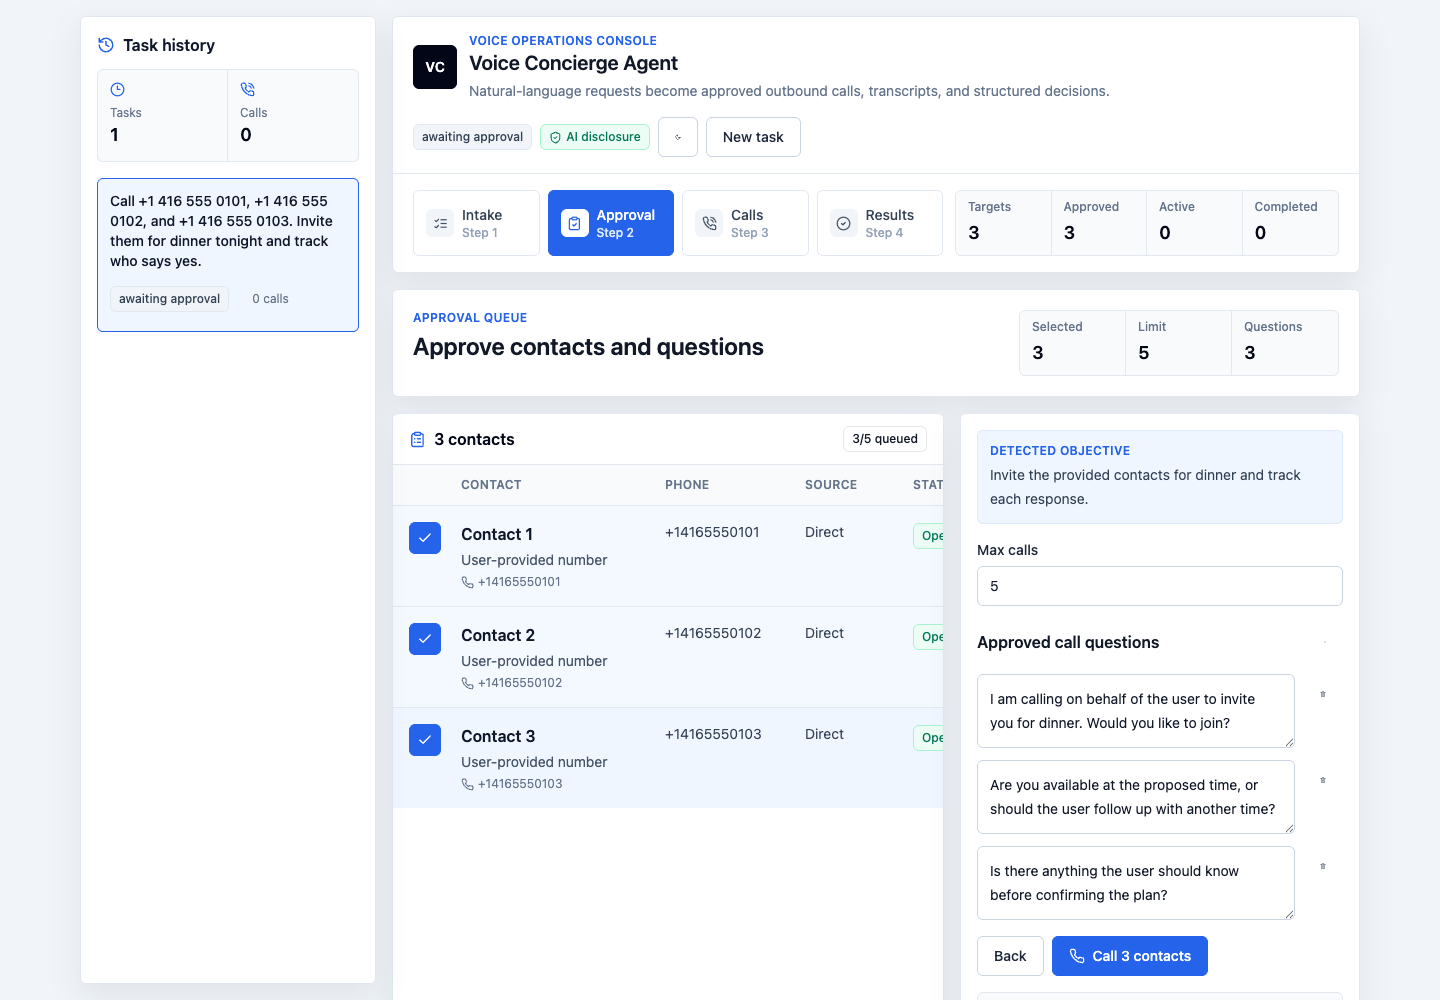
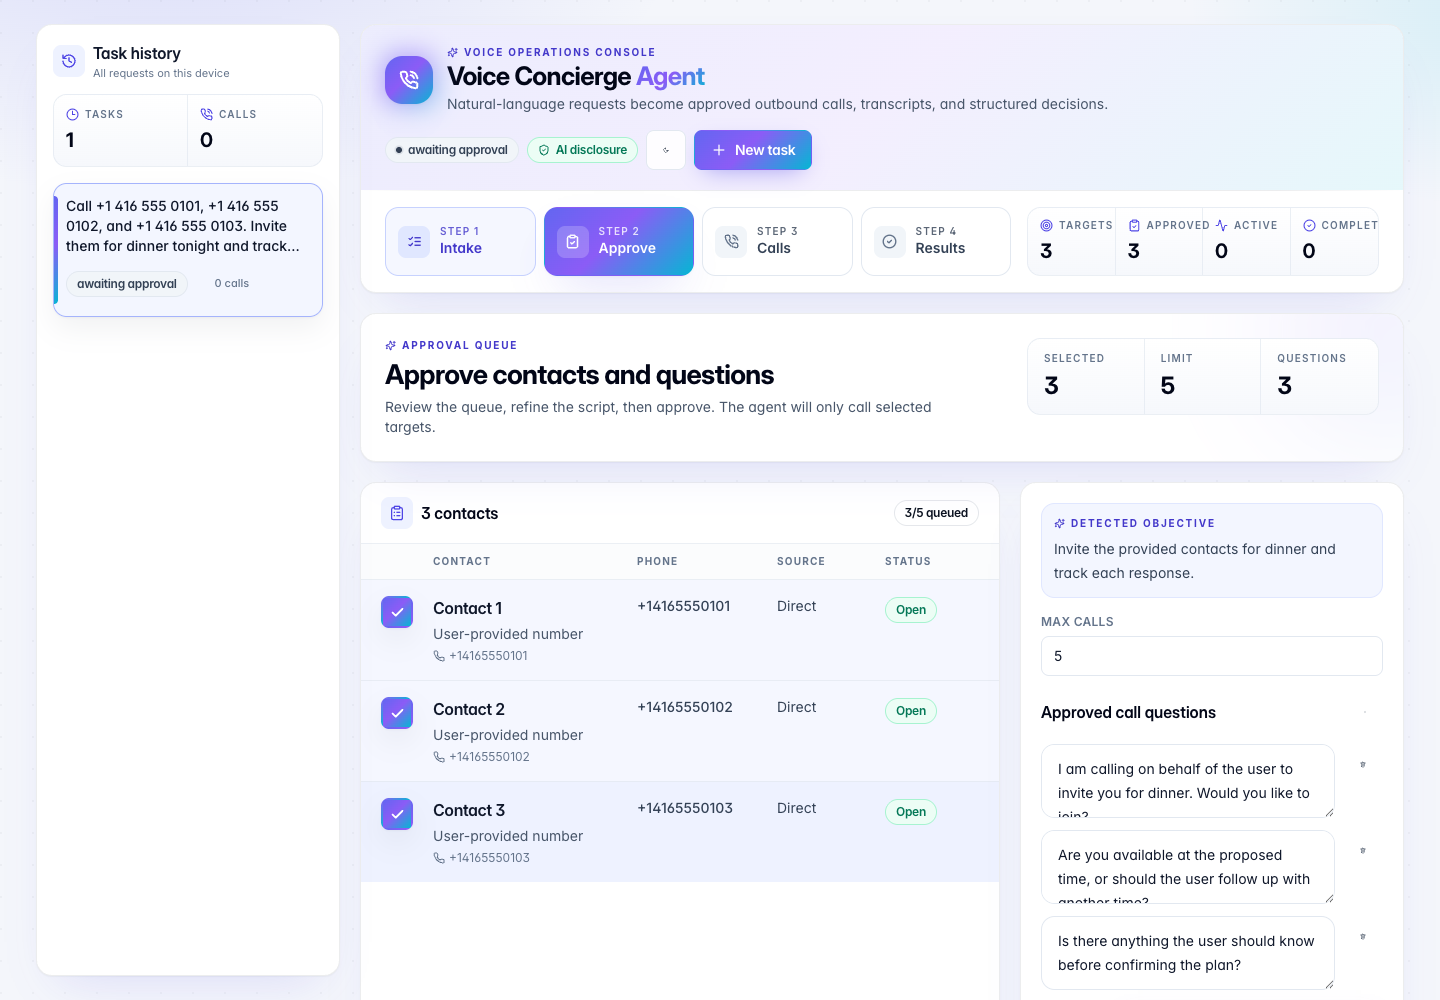
Refresh README UI demo screenshots

diff --git a/README.md b/README.md
@@ -11,7 +11,7 @@ Example requests:
 
 The app is intentionally not limited to restaurant filters. Users can type or speak general requests, provide phone numbers directly, or ask the system to discover nearby businesses first.
 
-Live app: [https://ai-calling-agent-snowy.vercel.app](https://ai-calling-agent-snowy.vercel.app)
+Live Vercel app: [https://ai-calling-agent-snowy.vercel.app](https://ai-calling-agent-snowy.vercel.app)
 
 > Current deployment runs in `DEMO_MODE=true`. It demonstrates the full product flow without placing real calls, running real Places lookups, or making OpenAI requests.
 
@@ -36,11 +36,11 @@ Safety controls:
 
 ## UI Demo
 
-There is no recorded demo video in this repository yet. The screenshots below show the production MVP flow.
+There is no recorded demo video in this repository yet. The screenshots below are refreshed from the current production-style dashboard flow.
 
 ### 1. Natural-Language Intake
 
-The user starts with a general request. The app can handle direct phone lists, appointment requests, or nearby discovery.
+The user starts with a general request. The dashboard makes it clear that the app can handle direct phone lists, appointment requests, or nearby discovery.
 
 ![Voice Concierge intake screen](docs/assets/ui-intake.png)
 
@@ -52,7 +52,7 @@ The app parses the request, creates call targets, proposes questions, and waits 
 
 ### 3. Structured Results
 
-After calls complete, the app shows the summary, structured table, call outcomes, transcripts, and export options.
+After calls complete, the app shows the summary, structured table, call outcomes, transcript evidence, and export options.
 
 ![Voice Concierge results screen](docs/assets/ui-results.png)
 
@@ -256,7 +256,7 @@ See [docs/api.md](docs/api.md) for more detail.
 
 ## Production Deployment
 
-This repository is deployed on Vercel with GitHub integration. Merges to `main` trigger production redeploys.
+This repository is deployed on Vercel at [https://ai-calling-agent-snowy.vercel.app](https://ai-calling-agent-snowy.vercel.app) with GitHub integration. Merges to `main` trigger production redeploys.
 
 Production setup requires:
 
